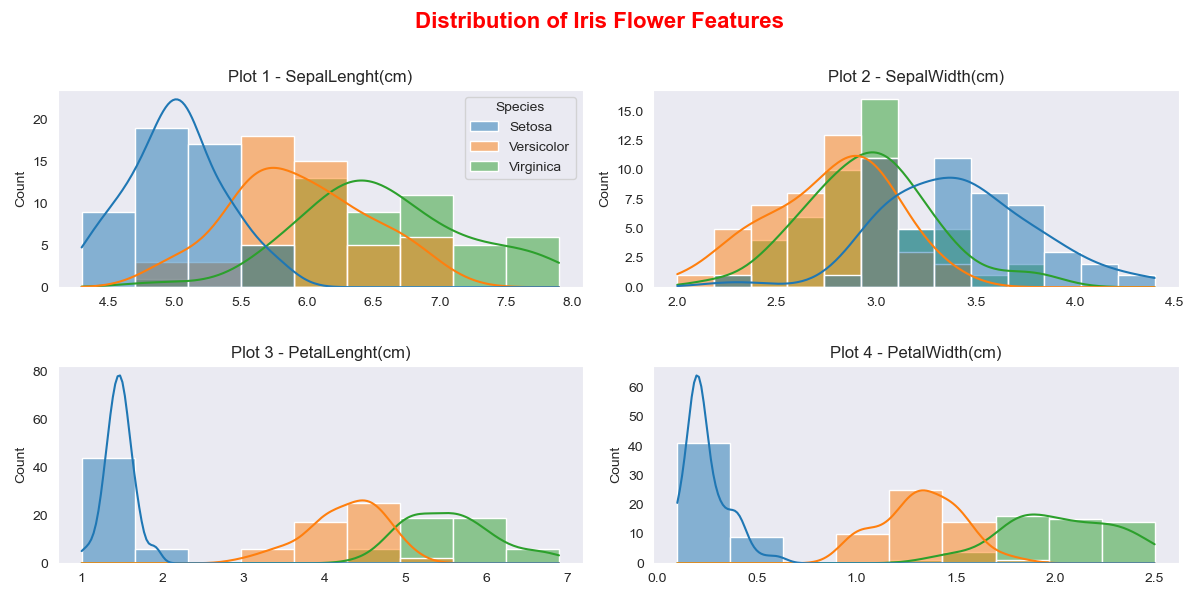
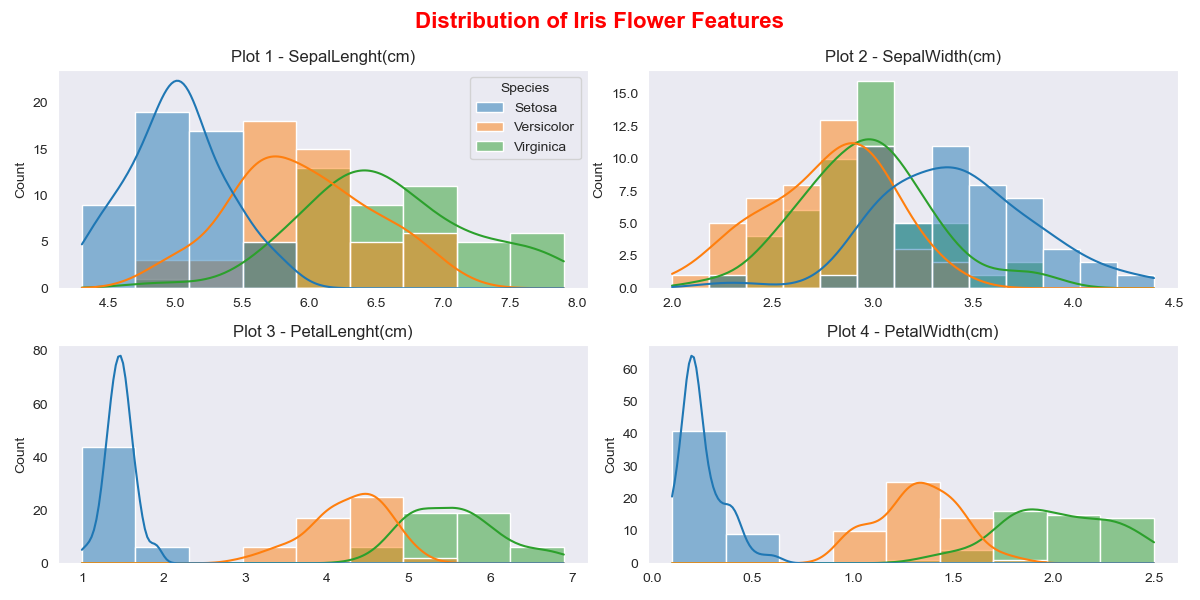
Pirplot

diff --git a/analysis.py b/analysis.py
@@ -91,42 +91,7 @@ plt. ylabel('Average', fontweight = 'bold', fontsize = 14)
 plt.xticks(rotation=0)
 plt.savefig('Plot2_AverageBar')
 
-          
-
-'''# Create a barplot of 
-
-fig, axs= plt.subplots(nrows=1, ncols=2, figsize=(12,6))
-
-plt.show()'''
-
-'''# Create a subplots of histograms with each speciel in different color and a KDE curve 
-
 # make the 'species' column categorical to fix the order
-df['Species'] = pd.Categorical(df['Species'])
-# create a 2x2 subplot
-fig, axs = plt.subplots(2, 2, figsize=(12, 6))
-# initialize a counter for the subplot index
-i = 0
-# loop through the first 4 columns of the DataFrame and corresponding subplots
-for col, ax in zip(df.columns[:4], axs.flat):
-    # create a histogram with a KDE curve for the current column, using the 'Species' column for the hue
-    sns.histplot(y=None, x=col, data=df, kde=True, hue='Species', common_norm=False, legend=ax==axs[0,0], ax=ax)
-    # set the title and the labels name
-    ax.set_title(f'Plot {i+1} - {col}')
-    ax.set_xlabel(None)
-    ax.set_ylabel('Count')
-    i = i+1
-# adjust the spacing between the subplots and set the figure title
-plt.tight_layout()
-fig.subplots_adjust(hspace=0.4, top=0.85)
-fig.suptitle('Distribution of Iris Flower Features', fontsize=16, color='red', fontweight='bold')
-# Save the figure 
-plt.savefig("Plot3_Subplot_Feature.png")''' 
-
-# ignore the warning message due to keyword on seaborn 
-import warnings
-warnings.filterwarnings("ignore", message="Pass the following variables as keyword args: x, y.")
-
 df['Species'] = pd.Categorical(df['Species'])
 # create a 2x2 subplot
 fig, axs = plt.subplots(2, 2, figsize=(12, 6))
@@ -142,25 +107,51 @@ for col, ax in zip(df.columns[:4], axs.flat):
     ax.set_ylabel('Count')
     i = i+1
 # adjust the spacing between the subplots and set the figure title
-plt.tight_layout()
-fig.subplots_adjust(hspace=0.4, top=0.85)
+fig.subplots_adjust(hspace=0.4, top=0.85, right=0.8)
 fig.suptitle('Distribution of Iris Flower Features', fontsize=16, color='red', fontweight='bold')
-# Save the figure 
+# adjust the layout and save the figure  
+plt.tight_layout()
 plt.savefig("Plot3_Subplot_Feature.png")
 
-## Plot Boxplots 
+# Create a supbplot with 4 scatterpoint comparing 2 features each 
+fig = plt.figure(figsize=(14,7))
+# Set the style of the plot to "darkgrid"
+sns.set_style("darkgrid")
+# Adjust the space between subplots and the top margin of the figure
+fig.subplots_adjust(hspace=0.4, top=0.85)
+# Add a  title to the entire figure
+plt.suptitle("Comparison between various Species", fontsize=18, color='red', fontweight='bold')
 
-plt.figure(figsize=(10,8))
-sns.set_style("whitegrid")
-plt.title('Comparing different species based on their sepal length and width', fontsize=16, color='red')
-plt.xlabel('Sepal Length (cm)', fontsize=14, color='blue')
-plt.ylabel('Sepal Width (cm)', fontsize=14, color='blue')
-sns.scatterplot(df['SepalLenght(cm)'], df['SepalWidth(cm)'], hue=df['Species'], s=80, alpha=0.8, palette="Dark2")
-plt.legend(loc='upper right', fontsize=12)
-plt.savefig("Plot.png")
-#plt.show()'''
+# Create the first scatter plot comparing Sepal Length and Sepal Width
+plt.subplot(221)
+plt.title("Sepal Length and Width", fontsize=16, fontweight='bold')
+sns.scatterplot(x=df['SepalLenght(cm)'], y=df['SepalWidth(cm)'], hue=df['Species'], s=80, alpha=0.8, palette="Dark2")
 
-'''plt.figure(figsize=(8,6))
-plt.title('Comparing different species based on their sepal length and width')    
-sns.scatterplot(df['SepalLenght(cm)'],df['SepalWidth(cm)'],hue =df['Species'],s=50)
-plt.show()'''   
+# Create the second scatter plot comparing Petal Length and Petal Width
+plt.subplot(222)
+plt.title("Petal Length and Width", fontsize=16, fontweight='bold')
+sns.scatterplot(x=df['PetalLenght(cm)'], y=df['PetalWidth(cm)'], hue=df['Species'], s=80, alpha=0.8, palette="Dark2", legend=False)
+
+# Create the second scatter plot comparing Petal Length and Sepal Width
+plt.subplot(223)
+plt.title("Petal Length and Sepal Width", fontsize=16, fontweight='bold')
+sns.scatterplot(x=df['PetalLenght(cm)'], y=df['SepalLenght(cm)'], hue=df['Species'], s=80, alpha=0.8, palette="Dark2", legend=False)
+
+# Create the second scatter plot comparing comparing Petal Width and Sepal Length
+plt.subplot(224)
+plt.title("Petal Widht and Sepal Lenght", fontsize=16, fontweight='bold')
+sns.scatterplot(x=df['PetalWidth(cm)'], y=df['SepalLenght(cm)'], hue=df['Species'], s=80, alpha=0.8, palette="Dark2", legend=False)
+
+# Adjust the layout and save the figure 
+plt.tight_layout()
+plt.savefig("Plot4_Subplot_scatterpoint.png")
+
+# Set the context for the plot, adjusting the size of the labels and fonts
+sns.set_context("paper", rc={"axes.labelsize":20})
+sns.set_context("talk", font_scale=1.4)
+# Create a pairplot of the dataset
+sns.pairplot(df,hue='Species', height=4, palette = 'colorblind')
+# Add a title to the entire figure, adjust the top margin and save the figure 
+plt.suptitle("Scatterplots of all-paired attributes", fontsize=20, fontweight='bold', color = 'red')
+plt.subplots_adjust(top=0.95)
+plt.savefig("Plot5_pairplot.png")
